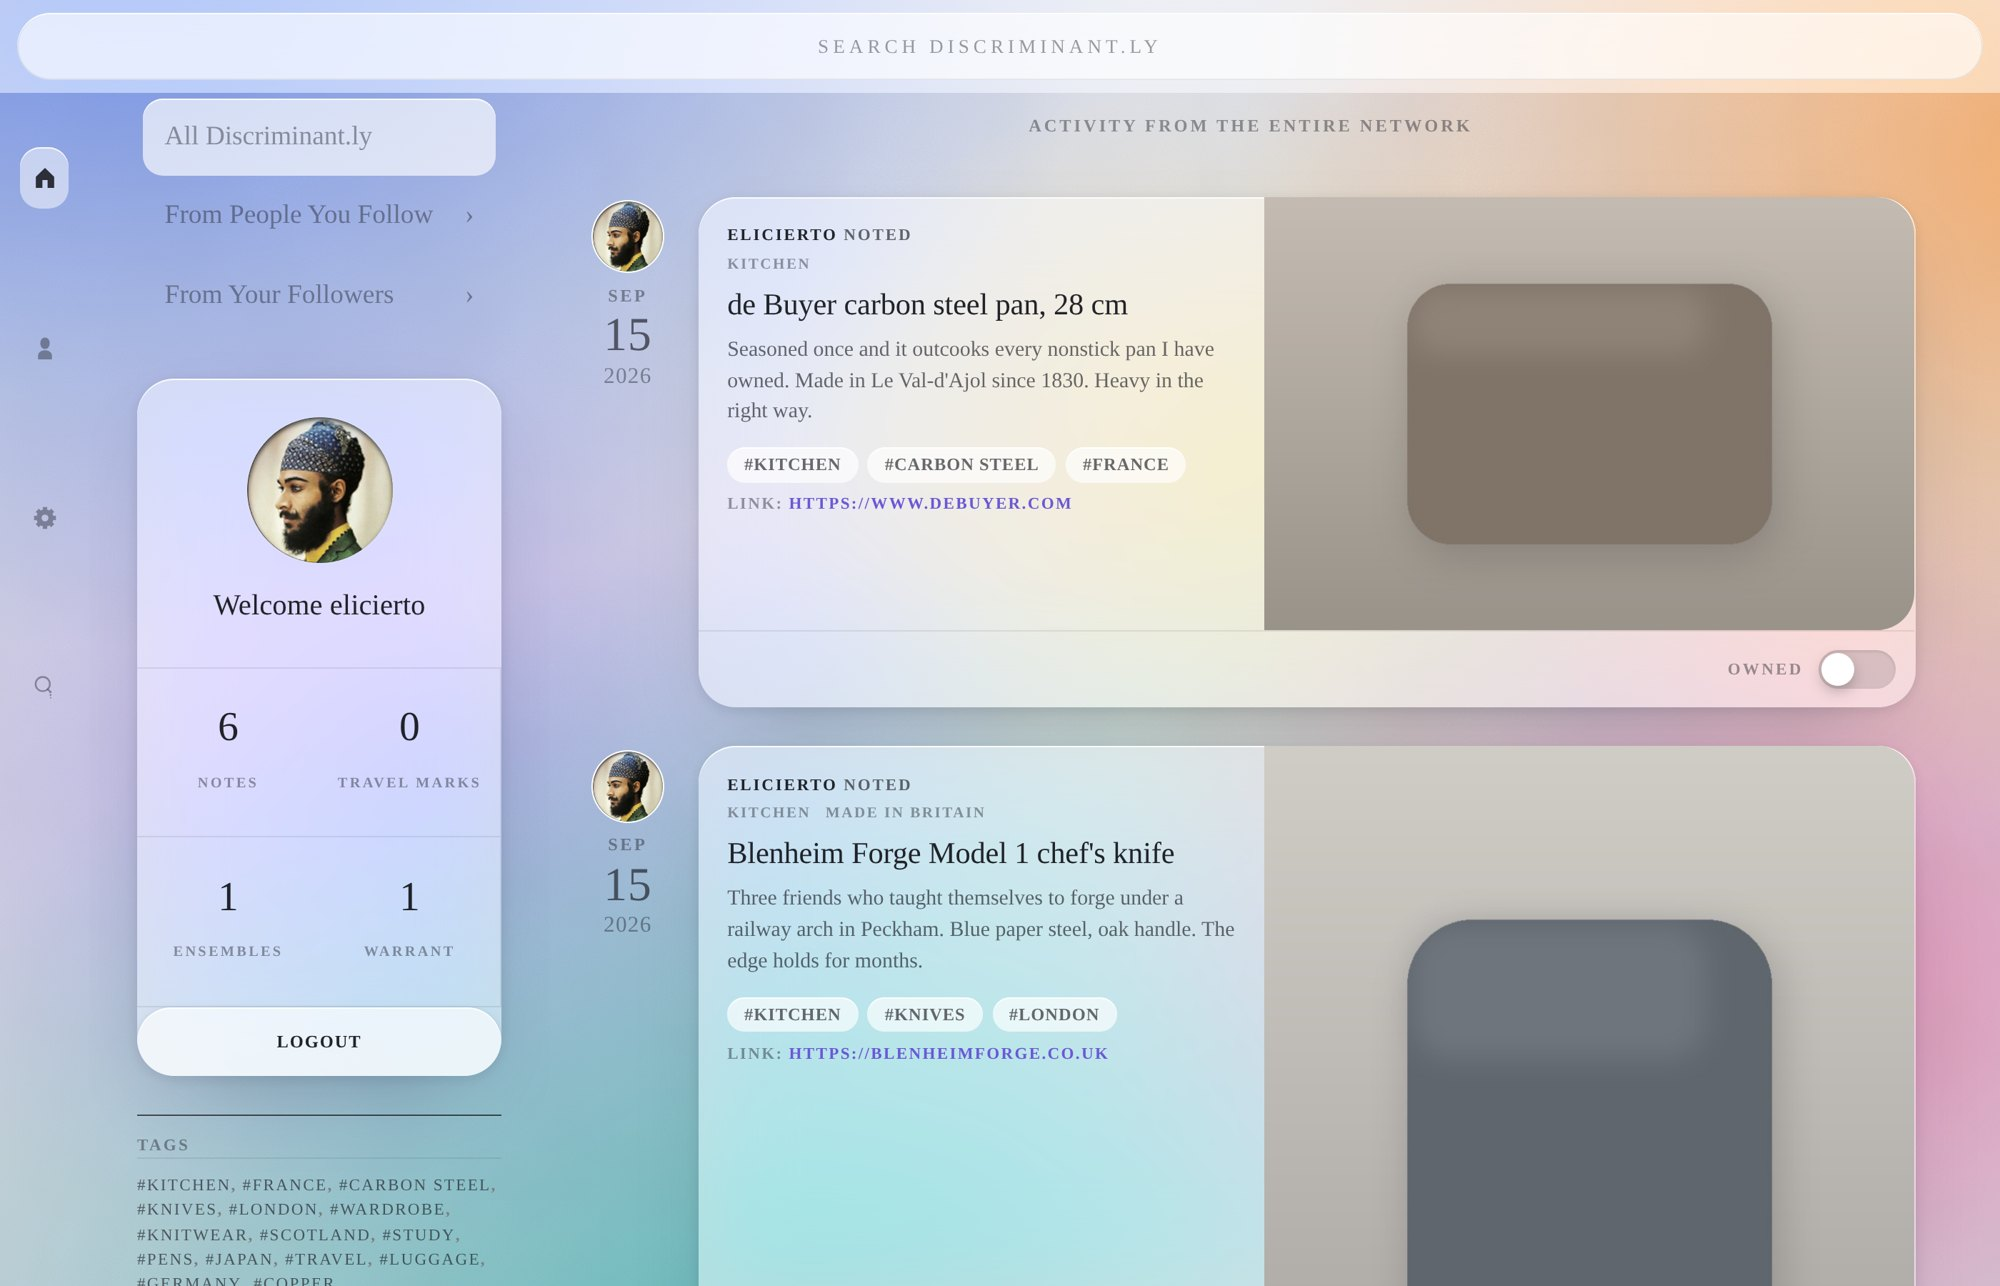
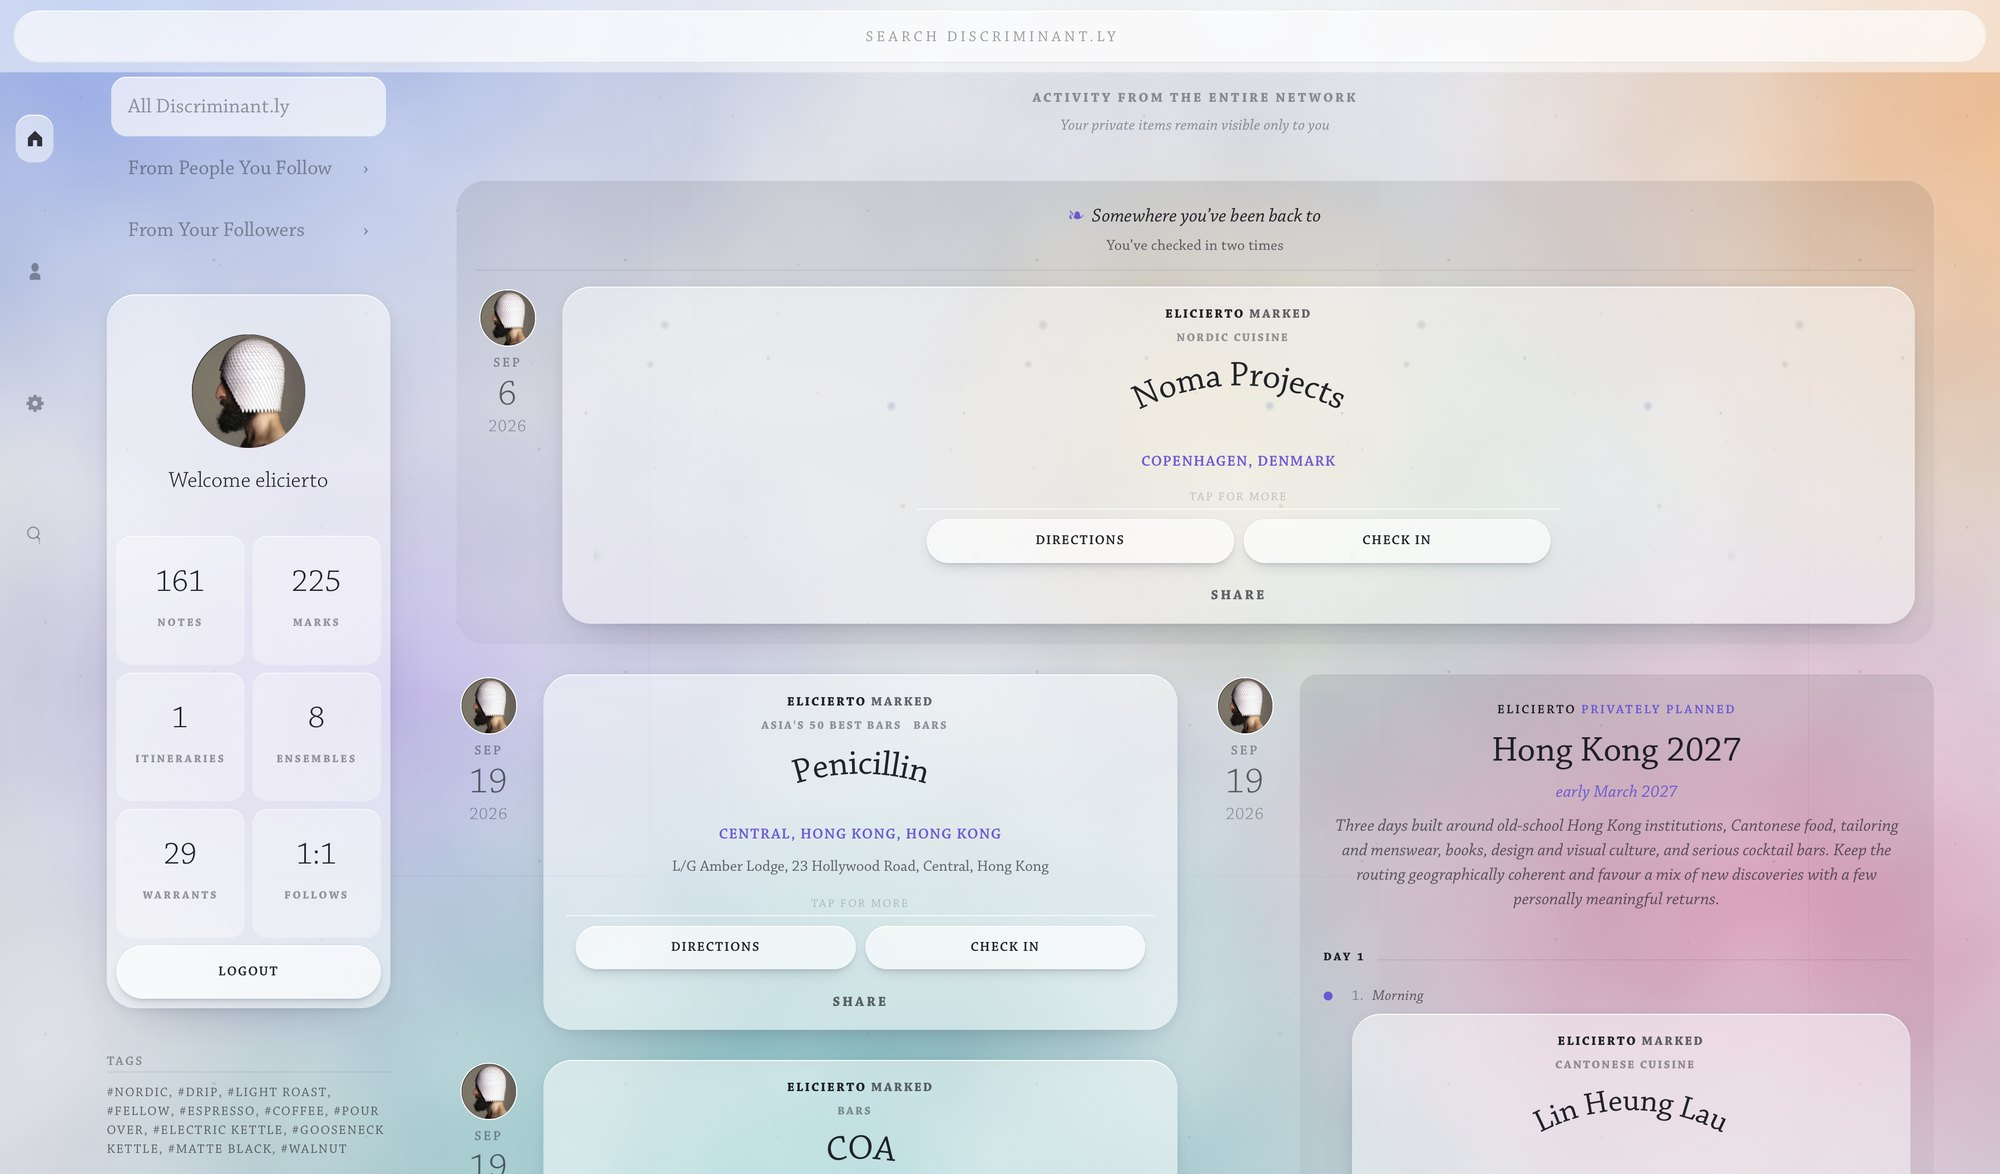
Add files via upload

diff --git a/server.js b/server.js
@@ -6347,9 +6347,9 @@ ${ask ? `window.askConfirm({ title: 'Were you there today?',
     <div class="shot-chrome"><span></span><span></span><span></span></div>
     ${skinOf(me, req) !== 'modern'
       ? `<img src="/welcome-shot.jpg" alt="Discriminantly on the desktop" width="1800" height="1055">`
-      : modeOf(me, req) === 'light' ? `<img src="/welcome-shot-modern-light.jpg" alt="Discriminantly on the desktop" width="2000" height="1286">`
-      : modeOf(me, req) === 'dark' ? `<img src="/welcome-shot-modern-dark.jpg" alt="Discriminantly on the desktop" width="2000" height="1286">`
-      : `<picture><source srcset="/welcome-shot-modern-light.jpg" media="(prefers-color-scheme: light)"><img src="/welcome-shot-modern-dark.jpg" alt="Discriminantly on the desktop" width="2000" height="1286"></picture>`}
+      : modeOf(me, req) === 'light' ? `<img src="/welcome-shot-modern-light.jpg" alt="Discriminantly on the desktop" width="2000" height="1174">`
+      : modeOf(me, req) === 'dark' ? `<img src="/welcome-shot-modern-dark.jpg" alt="Discriminantly on the desktop" width="2000" height="1174">`
+      : `<picture><source srcset="/welcome-shot-modern-light.jpg" media="(prefers-color-scheme: light)"><img src="/welcome-shot-modern-dark.jpg" alt="Discriminantly on the desktop" width="2000" height="1174"></picture>`}
   </div>
 </div>
 <div class="curtain dialog" id="splash-install-dialog">
@@ -6878,7 +6878,7 @@ const TOOLS = [
       tags: { type: 'array', items: { type: 'string' }, description: 'Lowercase tags, e.g. ["thai","bangkok","dinner"].' },
       link: { type: 'string', description: 'URL for the place, if there is one.' }, image: { type: 'string', description: IMAGE_FIELD_DESC },
       collections: { type: 'array', items: { type: 'string' }, description: "Names of the collections to file this place under, created if new. Check my_collections first and reuse an existing name exactly — Lisbon and lisbon become two separate collections. These can be changed later with edit_travel_mark." },
-      visited_on: { type: 'string', description: 'YYYY-MM-DD. Defaults to today; logs the first visit.' },
+      visited_on: { type: 'string', description: "YYYY-MM-DD, only when the member has ALREADY been: it records a check-in alongside the mark. Marking a place is not a claim to have been there, so leave this out for somewhere they mean to go, have only heard about, or did not say they visited. They can check in later with log_visit." },
       private: { type: 'boolean', description: 'True to keep the mark visible only to the member.' },
       allow_duplicate: { type: 'boolean', description: 'Set true only after the member confirms this is genuinely different from a similarly-named mark the tool flagged.' } } } ,
     outputSchema: OS_WRITE },
@@ -7452,8 +7452,16 @@ async function mcpCall(user, name, a = {}) {
            a.lat ?? null, a.lng ?? null, String(a.why || '').trim(),
            tagList(Array.isArray(a.tags) ? a.tags.join(',') : a.tags).join(', '), a.link || '', a.image || '', a.private ? 1 : 0, 0);
     if (Array.isArray(a.collections)) setMarkCollections(user.id, r.lastInsertRowid, a.collections);
-    const day = a.visited_on || new Date().toISOString().slice(0, 10);
-    q('INSERT INTO visits(mark_id,user_id,visited_on,body) VALUES(?,?,?,?)').run(r.lastInsertRowid, user.id, day, '');
+    // Intention is not experience: marking a place asserts that it is worth
+    // knowing about, not that the member has been. A check-in is written only
+    // where one was actually claimed, and it carries its own provenance like
+    // any other assertion.
+    if (a.visited_on) {
+      const v = q('INSERT INTO visits(mark_id,user_id,visited_on,body) VALUES(?,?,?,?)')
+        .run(r.lastInsertRowid, user.id, a.visited_on, '');
+      recordProvenance('visit', uidOf('visits', v.lastInsertRowid), 'created', mcpActor(user),
+        { source_kind: 'manual' });
+    }
     recordProvenance('mark', uidOf('marks', r.lastInsertRowid), 'created', mcpActor(user),
       { source_kind: 'manual' });
     // A verification claim must name what it rests on. Coordinates supplied by
@@ -7466,10 +7474,8 @@ async function mcpCall(user, name, a = {}) {
           auth_method: 'mcp_token', assertion: 'derived' },
         { source_kind: 'coordinates_supplied', source_ref: `${a.lat},${a.lng}` });
     }
-    recordProvenance('visit', uidOf('visits', q('SELECT MAX(id) i FROM visits').get().i), 'created', mcpActor(user),
-      { source_kind: 'manual' });
     const verifiedNote = a.lat != null && a.lng != null ? '' : ' — not verified against mapping data; mention this to the member';
-    return wr(`Marked #${r.lastInsertRowid}: ${a.place}${a.locality ? ', ' + a.locality : ''} (first visit ${day})${verifiedNote}`,
+    return wr(`Marked #${r.lastInsertRowid}: ${a.place}${a.locality ? ', ' + a.locality : ''} ${a.visited_on ? ` (checked in ${a.visited_on})` : ''}${verifiedNote}`,
       'created', 'mark', r.lastInsertRowid, uidOf('marks', r.lastInsertRowid), a.place);
   }
   if (name === 'edit_travel_mark') {

diff --git a/test/itinerary.js b/test/itinerary.js
@@ -502,5 +502,24 @@ console.log('\nmark lookup contracts');
      /name="mark_uid" value=""/.test(body));
 }
 
+// ---- marking is not visiting -----------------------------------------------
+console.log('\nintention is not experience');
+{
+  const add = SRC.slice(SRC.indexOf("if (name === 'add_travel_mark')"), SRC.indexOf("if (name ===", SRC.indexOf("if (name === 'add_travel_mark')") + 20));
+  ok('V1 a check-in is written only where one was claimed',
+     /if \(a\.visited_on\) \{[\s\S]*INSERT INTO visits/.test(add));
+  ok('V2 a visit is never dated "today" because a mark was made',
+     !/new Date\(\)\.toISOString\(\)\.slice\(0, 10\)/.test(add));
+  ok('V3 the visit\u2019s provenance uses its own insert id, not MAX(id)',
+     !/SELECT MAX\(id\) i FROM visits/.test(add));
+  ok('V4 one provenance row per visit', (add.match(/recordProvenance\('visit'/g) || []).length === 1);
+  ok('V5 the reply does not claim a visit that was not made',
+     !/first visit/.test(add));
+  ok('V6 the schema tells the caller marking is not a claim to have been',
+     /not a claim to have been there/.test(SRC));
+  const webMark = SRC.slice(SRC.indexOf("p === '/marks/new'"), SRC.indexOf("p === '/marks/new'") + 2600);
+  ok('V7 the web mark form never logs a visit', !/INSERT INTO visits/.test(webMark));
+}
+
 console.log(`\n${pass} passed, ${fail} failed`);
 process.exit(fail ? 1 : 0);

diff --git a/public/style.modern.css b/public/style.modern.css
@@ -2296,7 +2296,7 @@ html.m-light body[data-skin="modern"][data-mode="system"] .itin-sugg,
 html.m-light body[data-skin="modern"][data-mode="system"] .search-cards,
 html.m-light body[data-skin="modern"][data-mode="system"] .ens-parts,
 html.m-light body[data-skin="modern"][data-mode="system"] .visit-log {
-  background-image: linear-gradient(to bottom, rgba(20,22,28,.06), rgba(20,22,28,0) 45%);
+  background-image: none;
 }
 body[data-skin="modern"] .visit-log { border-radius: 16px; }
 
@@ -2306,6 +2306,6 @@ body[data-skin="modern"] .itin-shell:hover {
 }
 body[data-skin="modern"][data-mode="light"] .itin-shell:hover,
 html.m-light body[data-skin="modern"][data-mode="system"] .itin-shell:hover {
-  background-image: linear-gradient(to bottom, rgba(20,22,28,.08), rgba(20,22,28,0) 45%);
+  background-image: none;
 }
 body[data-skin="modern"] .itin-shell { transition: background-color .22s var(--m-ease), background-image .22s var(--m-ease); }
